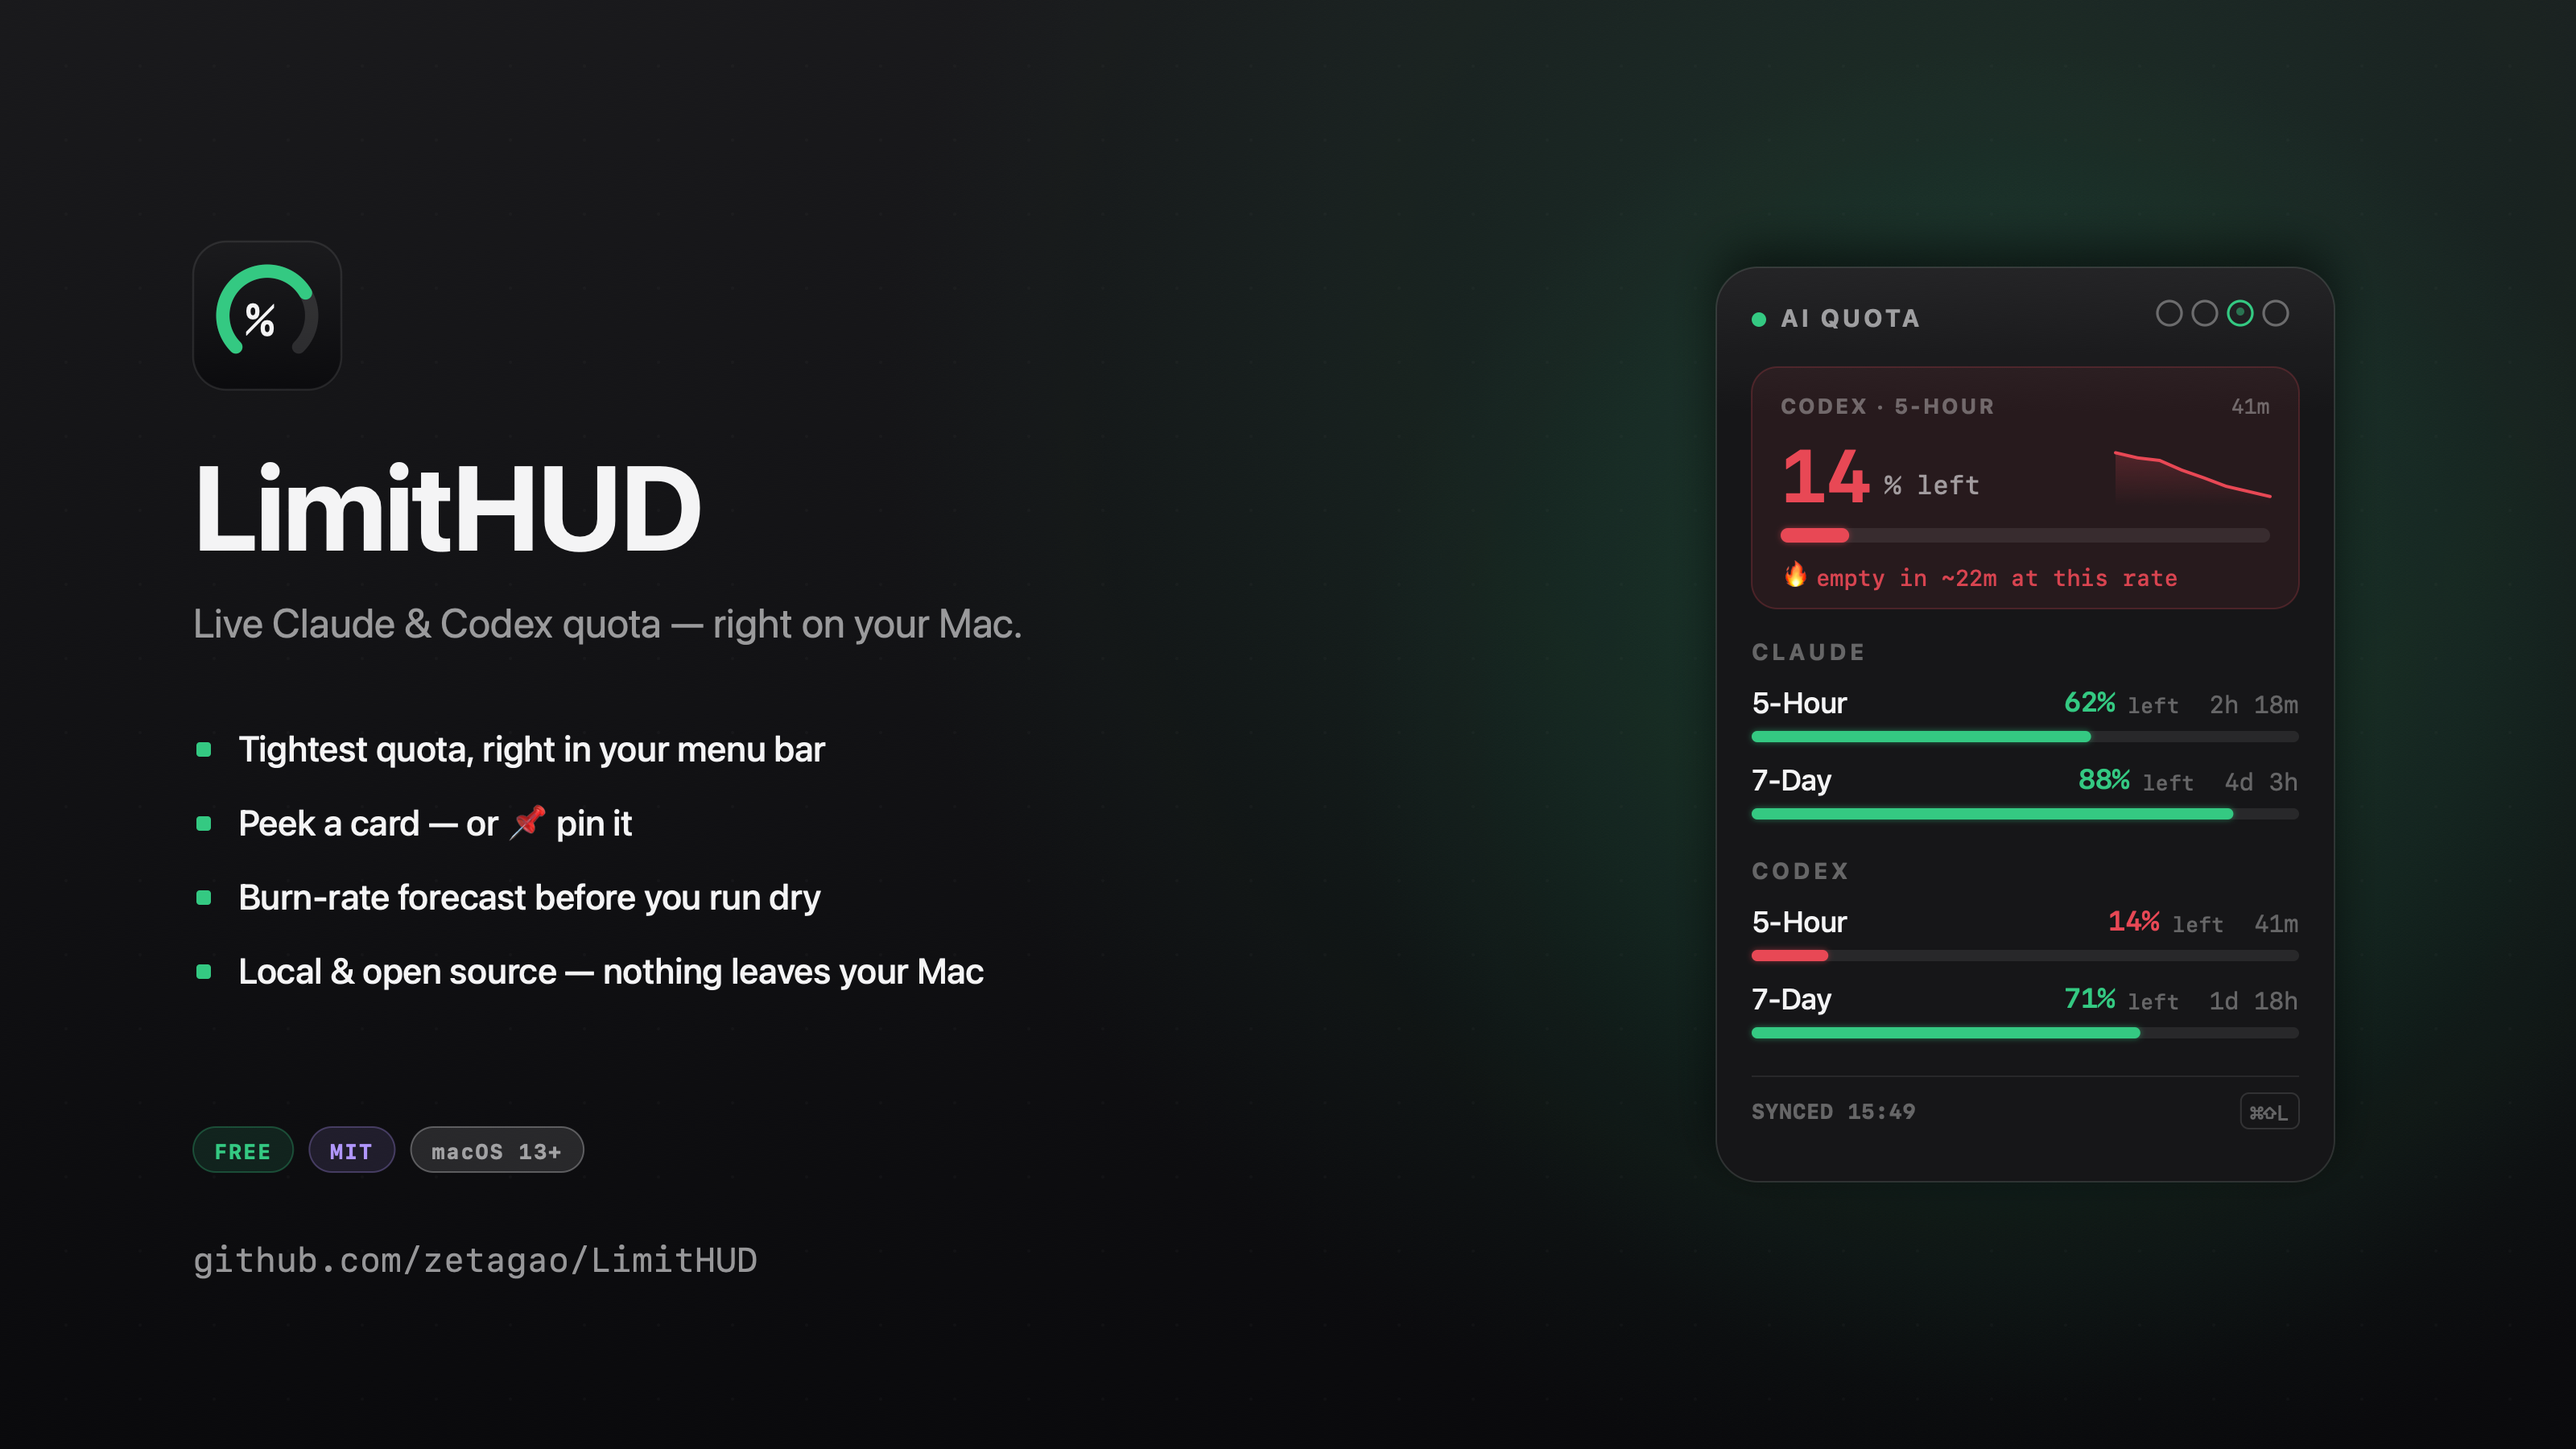
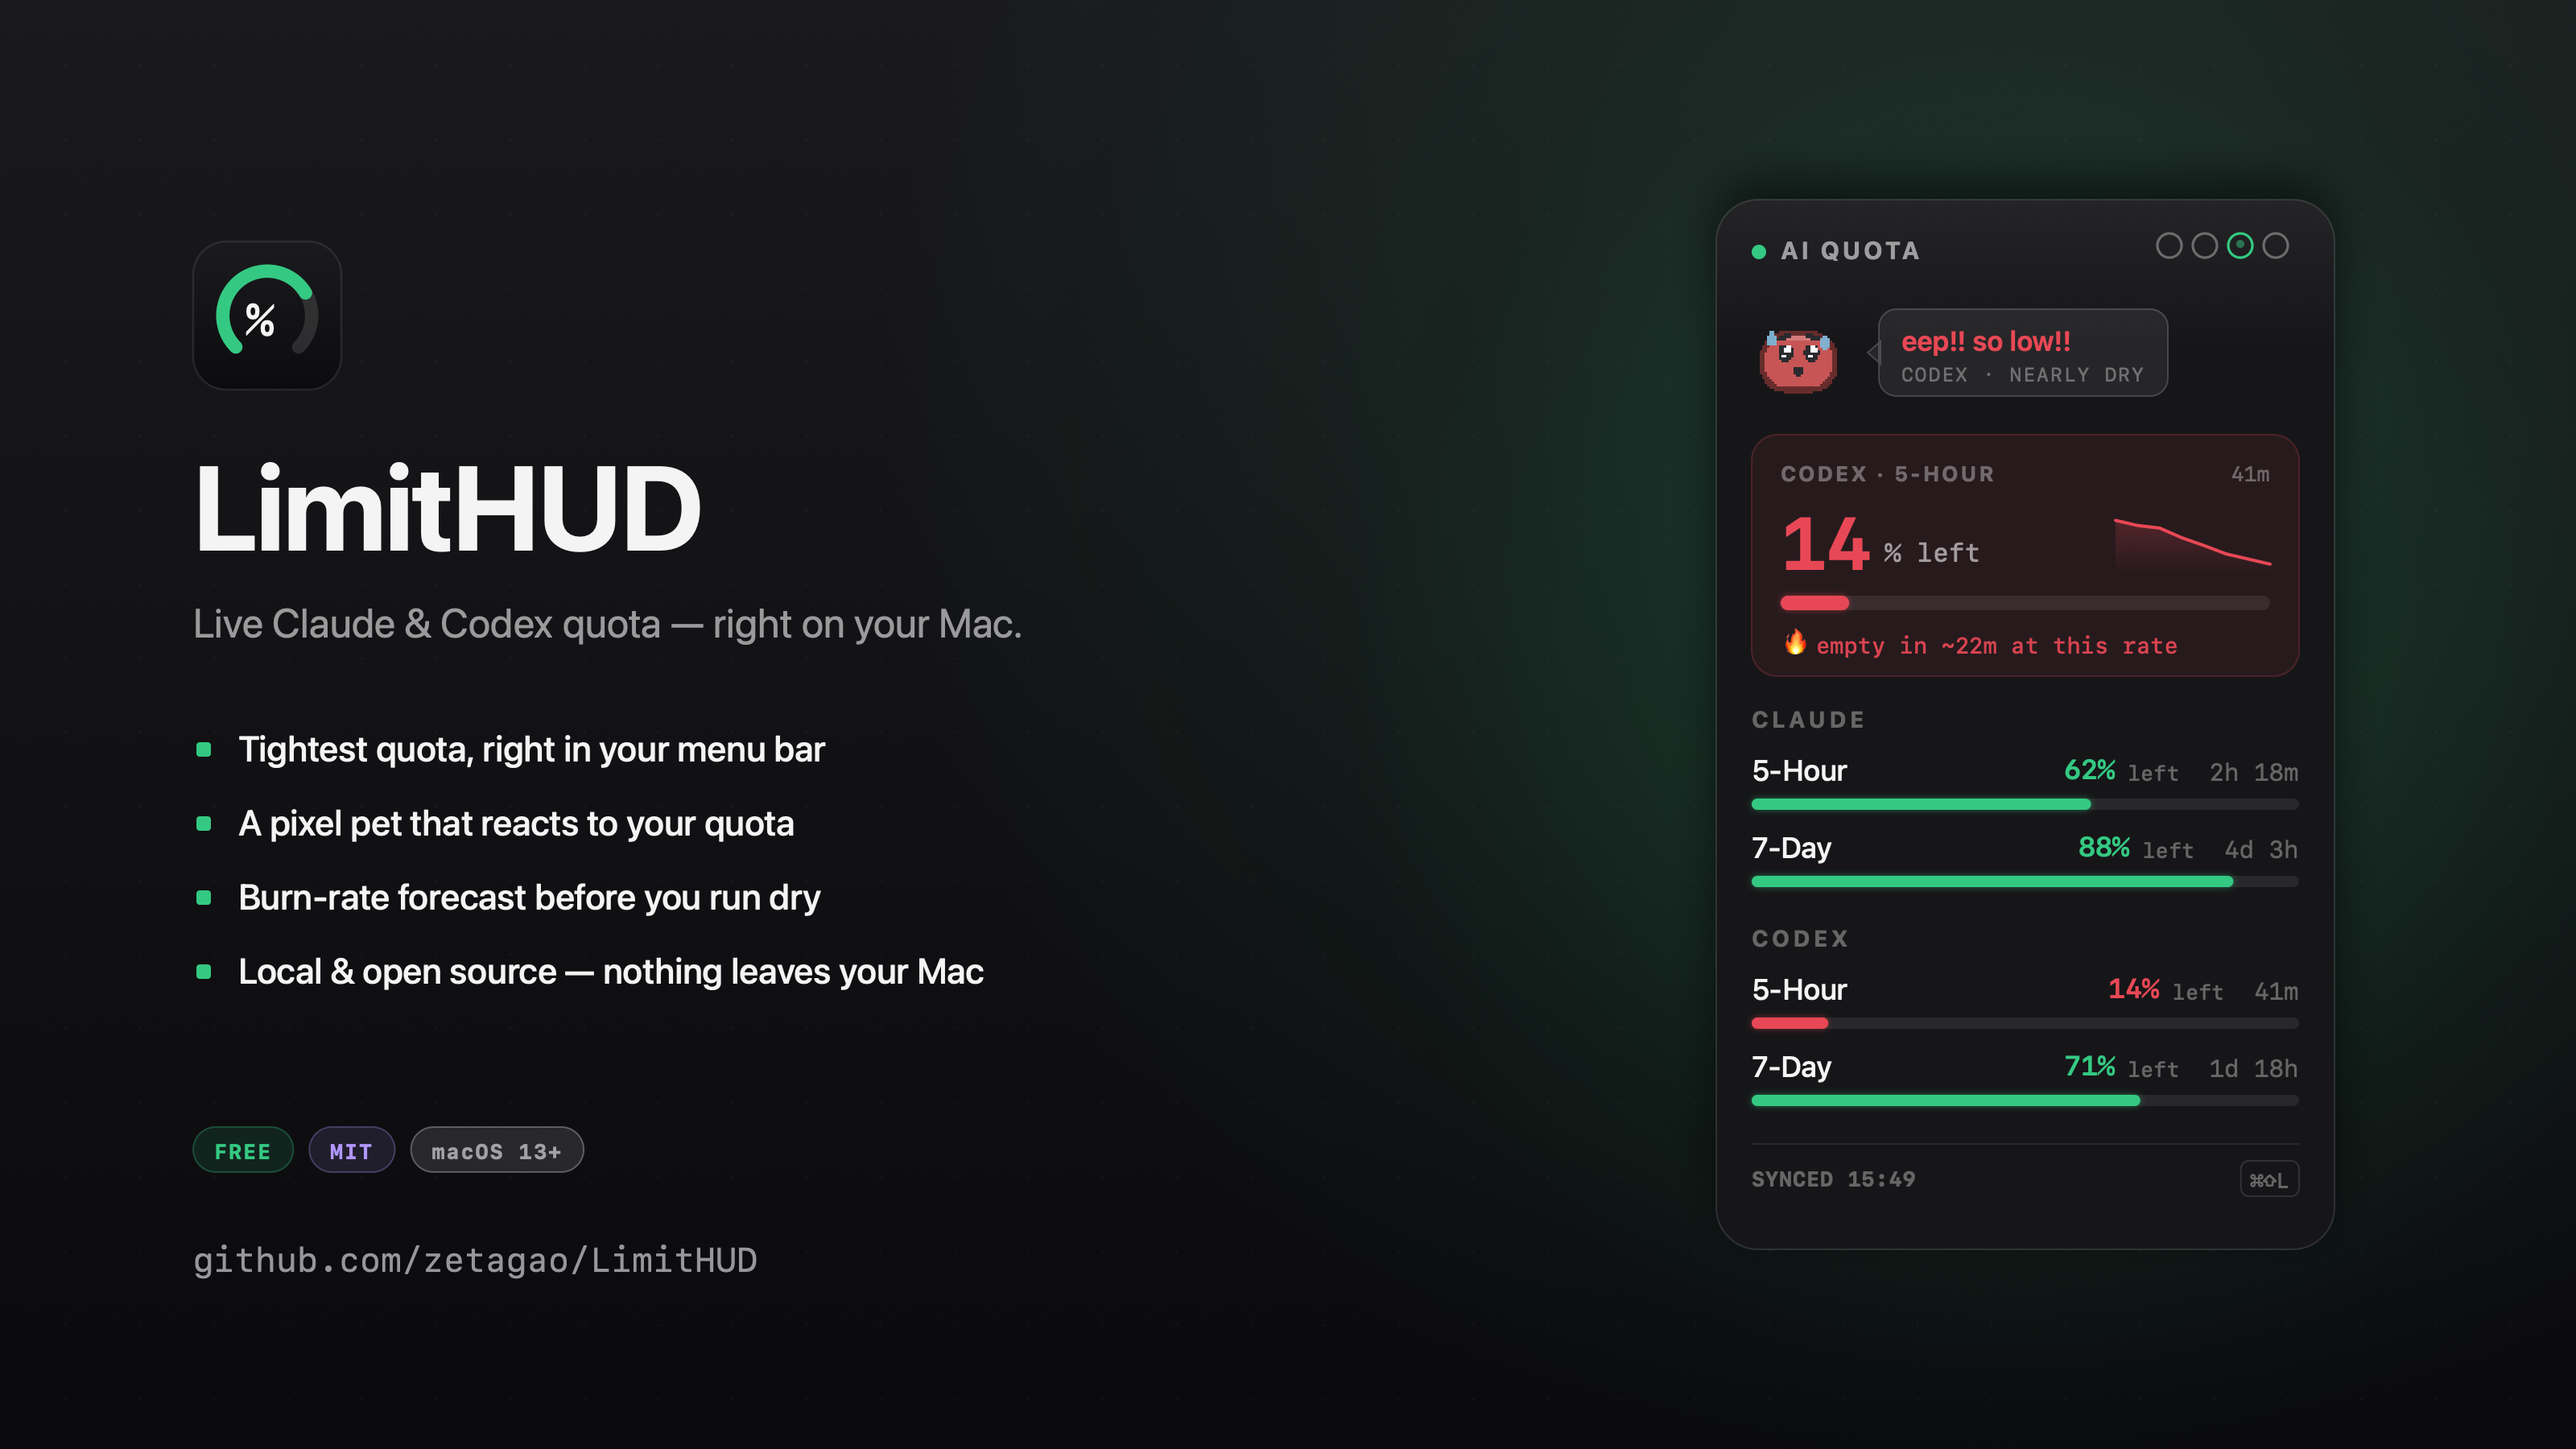
docs: hero image now features the quota pet + speech bubble

diff --git a/tools/heroimage.swift b/tools/heroimage.swift
@@ -95,7 +95,7 @@ text("LimitHUD", lx, 270, 74, ink, weight: .bold, kern: -1)
 text("Live Claude & Codex quota — right on your Mac.", lx, 372, 25, muted)
 
 // feature lines
-let feats = ["Tightest quota, right in your menu bar", "Peek a card — or 📌 pin it", "Burn-rate forecast before you run dry", "Local & open source — nothing leaves your Mac"]
+let feats = ["Tightest quota, right in your menu bar", "A pixel pet that reacts to your quota", "Burn-rate forecast before you run dry", "Local & open source — nothing leaves your Mac"]
 var fy: CGFloat = 452
 for f in feats {
     ctx.setFillColor(green.cgColor)
@@ -135,7 +135,9 @@ let secs = [
 
 // measure height
 let heroH: CGFloat = 150
+let mbH: CGFloat = 70       // mascot band (pet + speech bubble)
 var ch = pad + 40           // header
+ch += mbH + 14              // mascot band + gap
 ch += heroH + 18            // bottleneck hero + gap
 for s in secs { ch += 30 + CGFloat(s.rows.count)*48 + 10 }
 ch += 14 + 30 + pad         // divider + footer
@@ -177,6 +179,38 @@ for (i, gx) in [CW-pad-88, CW-pad-66, CW-pad-44, CW-pad-22].enumerated() {
     if isPin { ctx.setFillColor(green.withAlphaComponent(0.5).cgColor); ctx.fillEllipse(in: CGRect(x: cx+gx+5, y: y+3, width: 5, height: 5)) }
 }
 y += 40
+
+// ── Mascot band: the quota pet + its speech bubble ──
+let petSize: CGFloat = 66
+var petImg: NSImage!
+MainActor.assumeIsolated {
+    petImg = PixelPet.sprite(style: "mochi", state: "danger", grid: 44, frame: 8)
+}
+petImg.draw(in: NSRect(x: tx - 4, y: y, width: petSize, height: petSize), from: .zero,
+            operation: .sourceOver, fraction: 1, respectFlipped: true,
+            hints: [.interpolation: NSImageInterpolation.none.rawValue])
+// speech bubble
+let bubTitle = "eep!! so low!!"
+let bubSub = "CODEX · NEARLY DRY"
+let bpad: CGFloat = 14, tail: CGFloat = 7
+let bubInnerW = max(textW(bubTitle, 17, weight: .semibold), textW(bubSub, 12, mono: true, kern: 1))
+let bubW = bubInnerW + bpad*2, bubH: CGFloat = 54
+let bx = tx + petSize + 6
+let bubY = y + (petSize - bubH)/2
+let bodyRect = CGRect(x: bx+tail, y: bubY, width: bubW, height: bubH)
+let bMidY = bubY + bubH/2
+let bTail = CGMutablePath()
+bTail.move(to: CGPoint(x: bx, y: bMidY))
+bTail.addLine(to: CGPoint(x: bx+tail+1, y: bMidY-tail))
+bTail.addLine(to: CGPoint(x: bx+tail+1, y: bMidY+tail))
+bTail.closeSubpath()
+ctx.addPath(roundedPath(bodyRect, 11)); ctx.addPath(bTail)
+ctx.setFillColor(C(1,1,1,0.07).cgColor); ctx.fillPath()
+ctx.addPath(roundedPath(bodyRect, 11)); ctx.addPath(bTail)
+ctx.setStrokeColor(C(1,1,1,0.18).cgColor); ctx.setLineWidth(1); ctx.strokePath()
+text(bubTitle, bx+tail+bpad, bubY+10, 17, red, weight: .semibold)
+text(bubSub, bx+tail+bpad, bubY+33, 12, muted2, mono: true, kern: 1)
+y += mbH + 14
 
 // ── Bottleneck hero (the tightest window, called out big) ──
 let hero = secs[1].rows[0]              // CODEX · 5-Hour, 14%, red
